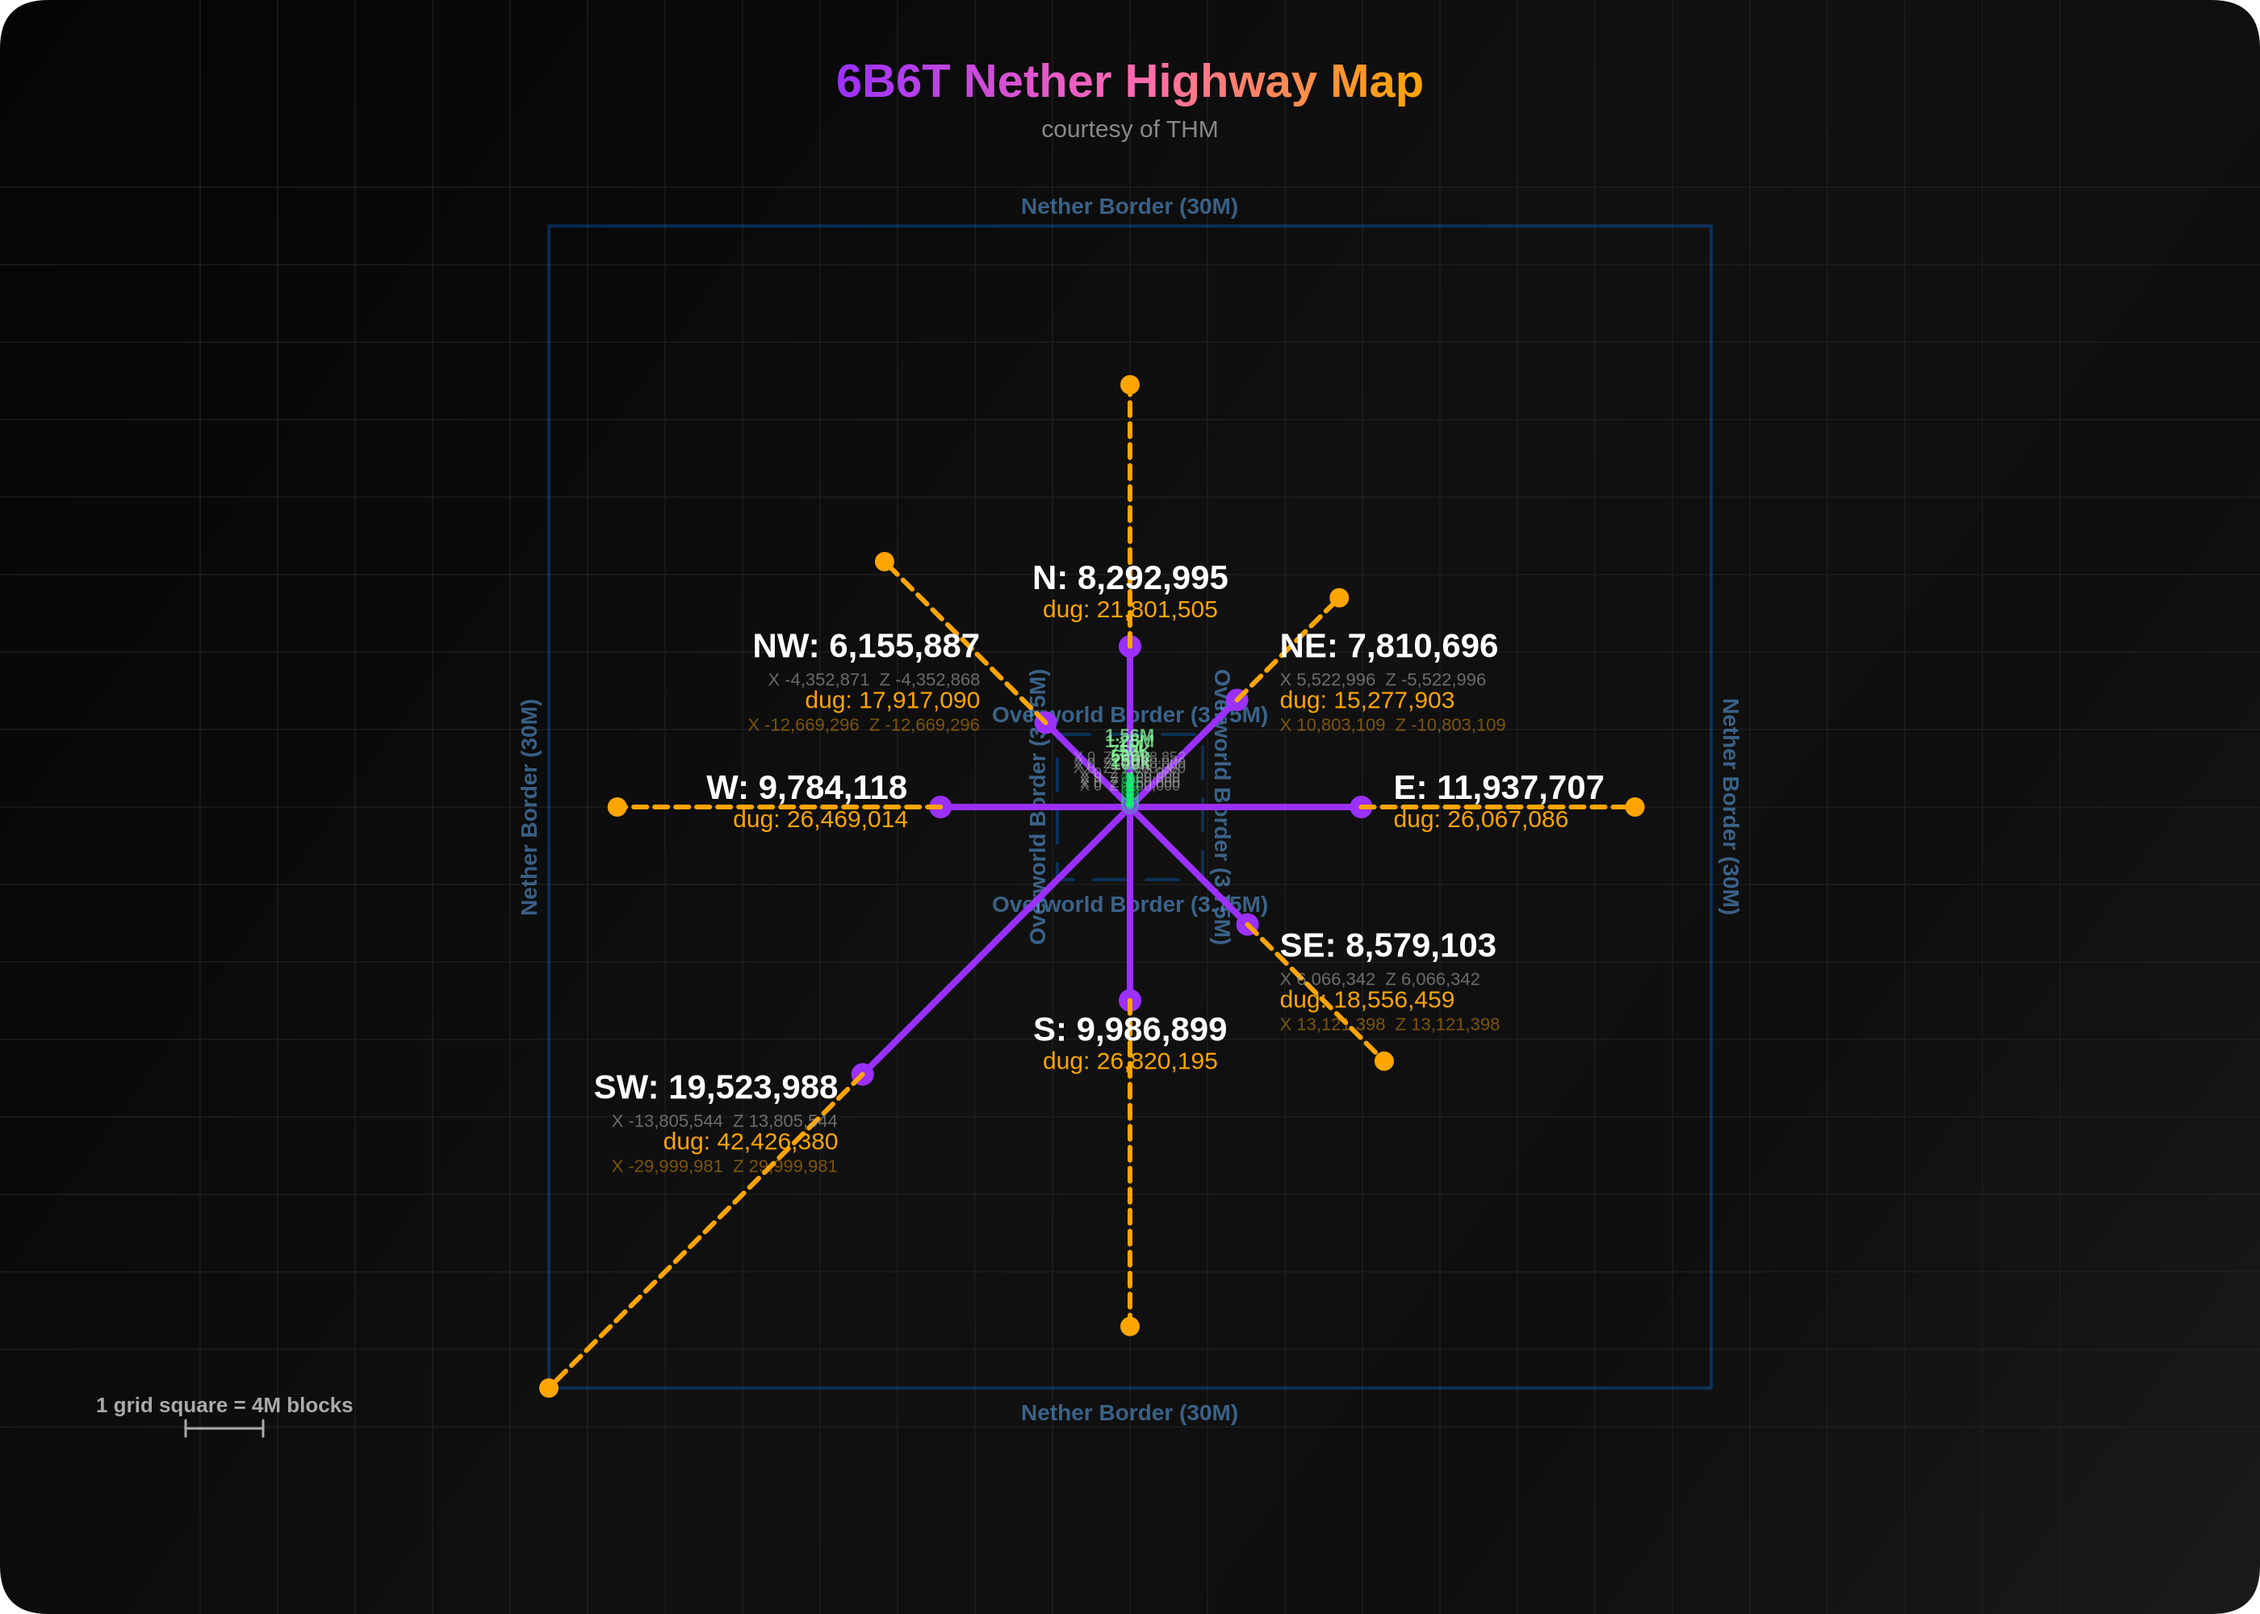
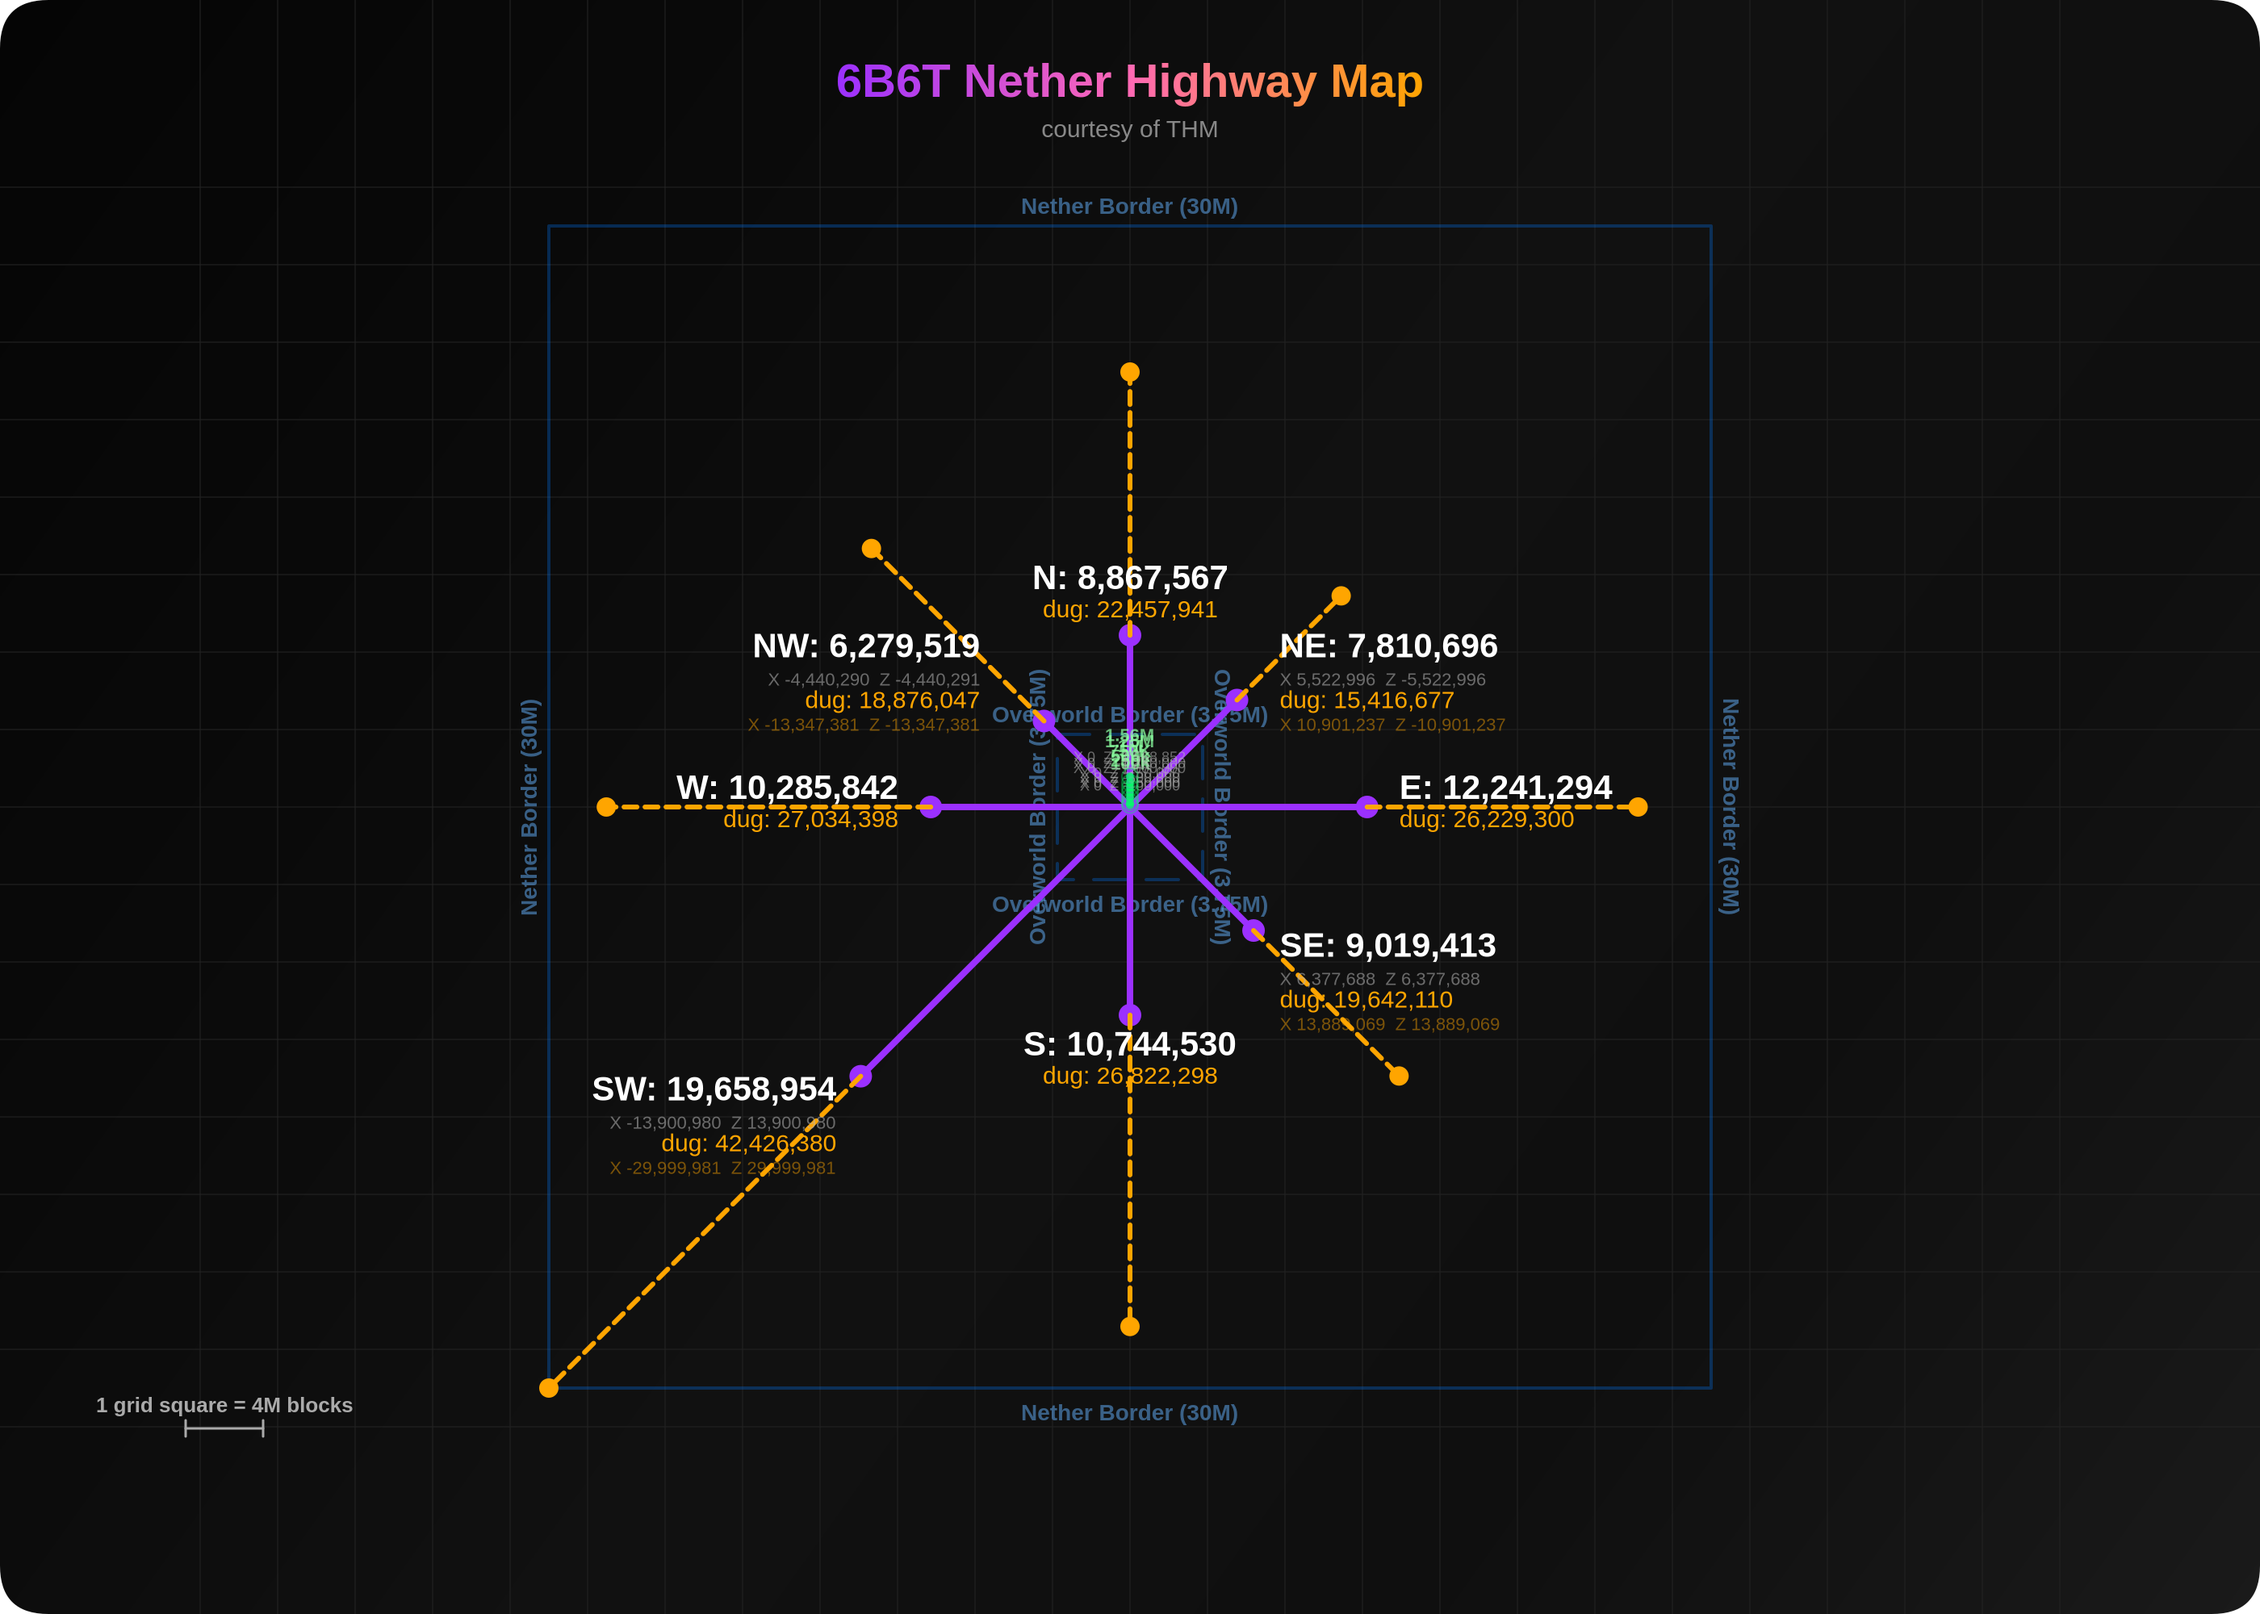
By megan

diff --git a/public/players/index.html b/public/players/index.html
@@ -51,7 +51,7 @@
           <li><div class="roster-entry"><span>FantasticJB<span class="member-status">The Chosen One</span></span><span class="profile-status">No profile yet</span></div></li>
           <li><div class="roster-entry"><span>DaReapsta<span class="member-status">Major</span></span><span class="profile-status">No profile yet</span></div></li>
           <li><div class="roster-entry"><span>SloppiPapi00<span class="member-status">Major</span></span><span class="profile-status">No profile yet</span></div></li>
-          <li><div class="roster-entry"><span>GabrielMacaroon<span class="member-status">Mayor</span></span><span class="profile-status">No profile yet</span></div></li>
+          <li><div class="roster-entry"><span>WRENCHWD-2.0<span class="member-status">Mayor</span></span><span class="profile-status">No profile yet</span></div></li>
           <li><div class="roster-entry"><span>Ooranges<span class="member-status">Mayor</span></span><span class="profile-status">No profile yet</span></div></li>
           <li><div class="roster-entry"><span>__Devion__<span class="member-status">Elite Highway Man</span></span><span class="profile-status">No profile yet</span></div></li>
           <li><div class="roster-entry"><span>AcidGapple<span class="member-status">Elite Highway Man</span></span><span class="profile-status">No profile yet</span></div></li>
@@ -92,7 +92,6 @@
           <li><div class="roster-entry"><span>Hejky420<span class="member-status">Retired</span></span><span class="profile-status">No profile yet</span></div></li>
           <li><div class="roster-entry"><span>KudoBelle<span class="member-status">Retired</span></span><span class="profile-status">No profile yet</span></div></li>
           <li><div class="roster-entry"><span>Meech94<span class="member-status">Retired</span></span><span class="profile-status">No profile yet</span></div></li>
-          <li><a href="/players/MeganByte_/" class="roster-entry"><span>MeganByte_<span class="member-status">Retired</span></span><span class="profile-status">View profile <span aria-hidden="true">→</span></span></a></li>
           <li><div class="roster-entry"><span>Mickyaldeano<span class="member-status">Retired</span></span><span class="profile-status">No profile yet</span></div></li>
           <li><a href="/players/mingailas/" class="roster-entry"><span>mingailas<span class="member-status">Retired · Former owner</span></span><span class="profile-status">View profile <span aria-hidden="true">→</span></span></a></li>
           <li><div class="roster-entry"><span>NatetheDawg<span class="member-status">Retired</span></span><span class="profile-status">No profile yet</span></div></li>
